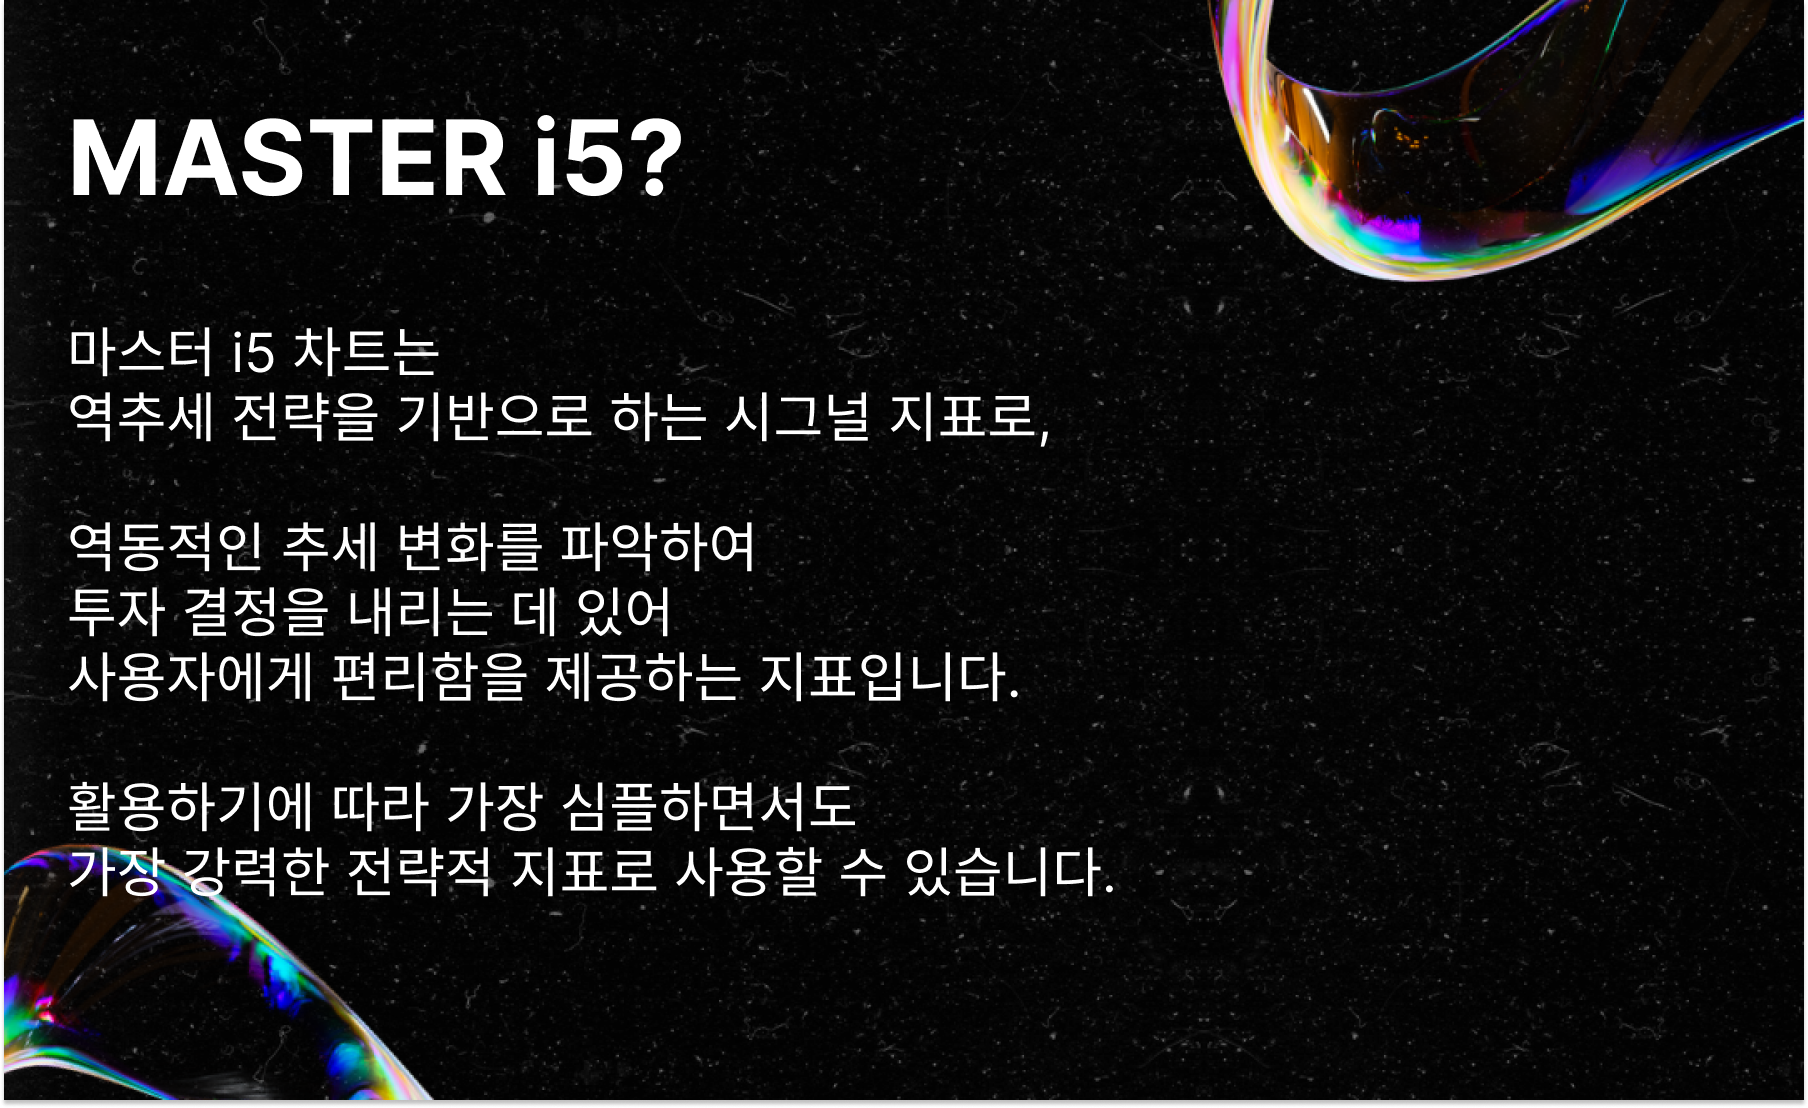
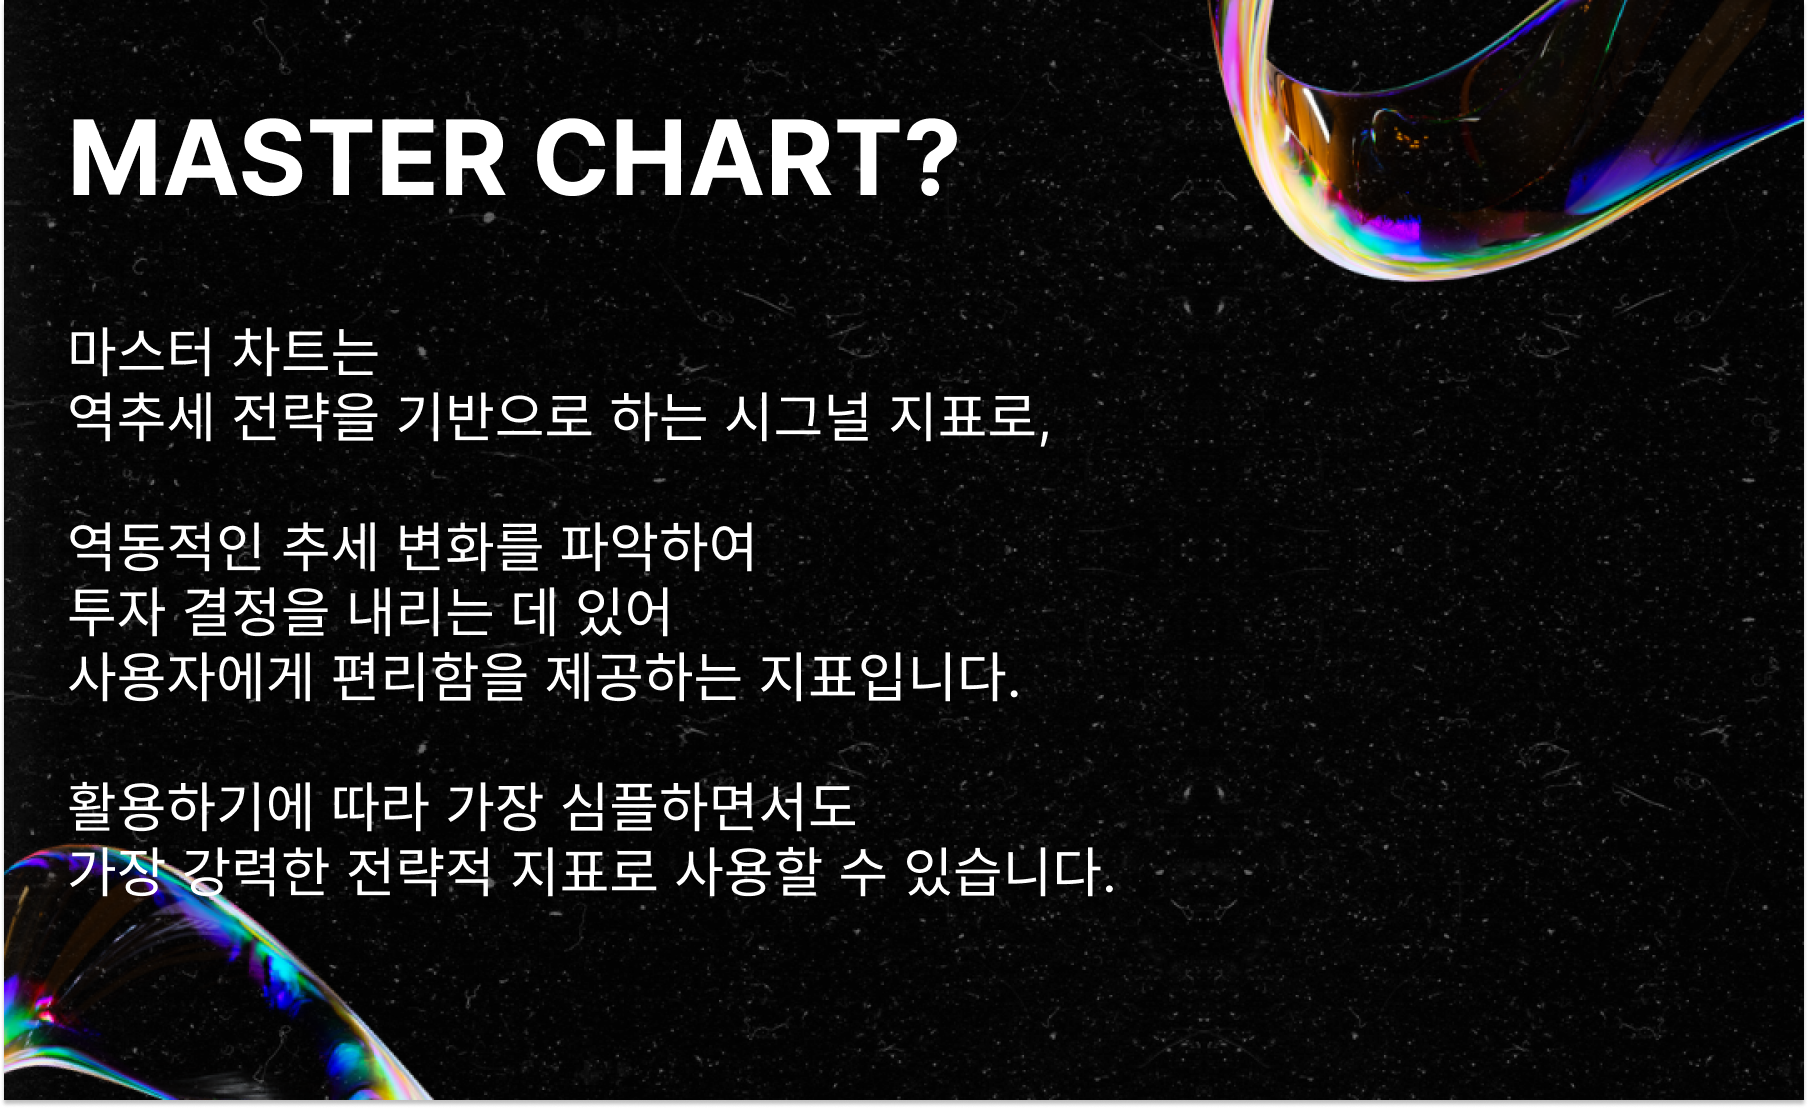
masteri5 v1.1 - image change

Changed region(s): [[0.2788, 0.0921, 0.5265, 0.1841], [0.1239, 0.2762, 0.2478, 0.3375]]

diff --git a/index.html b/index.html
@@ -4,10 +4,9 @@
 <head>
   <meta charset="UTF-8">
   <meta name="viewport" content="width=device-width, initial-scale=1.0">
-  <title>Master i5 - Reverse Solution</title>
+  <title>Master Chart - Reverse Solution</title>
 
   <link rel="stylesheet" href="https://cdn.jsdelivr.net/npm/swiper@11/swiper-bundle.min.css" />
-  <script src="https://cdn.jsdelivr.net/npm/swiper@11/swiper-bundle.min.js"></script>
   <link rel="stylesheet" href="./style.css">
 </head>
 
@@ -31,16 +30,18 @@
   <section id="img6">
     <img src="./img/Group 325.png" alt="section-image">
   </section>
+  <!-- Video -->
   <section id="img7">
     <img src="./img/Group 318.png" alt="section-image">
     <div class="video-box">
       <video src="./media/masteri5.mp4" controls loop muted></video>
     </div>
   </section>
+  <!-- Swiper -->
   <section id="img8">
     <img src="./img/Group 319.png" alt="section-image">
     <!-- Swiper -->
-    <div class="swiper analyst__swiper">
+    <div class="analyst__swiper">
       <div class="swiper-wrapper">
         <div class="swiper-slide">
           <img src="./img/analyst01.png" alt="analyst">
@@ -70,12 +71,13 @@
     <p class="company__name container">reverse solution</p>
     <hr>
     <div class="wrapper container">
-      <p class="description">Name. Bit Solution | Address. Seoul, Korea</p>
+      <p class="description">Name. Reverse Solution & Noti Tech | Address. Seoul, Korea</p>
       <p class="copyright">COPYRIGHT © BITSOLUTION ALL RIGHTS RESERVED</p>
     </div>
   </footer>
 
   <!-- SCRIPT -->
+  <script src="https://cdn.jsdelivr.net/npm/swiper@11/swiper-bundle.min.js"></script>
   <script>
     document.querySelector('video').playbackRate = 2;
 
@@ -84,7 +86,6 @@
         delay: 1,
         disableOnInteraction: false,
       },
-      freemode: true,
       speed: 8e3,
       loop: true,
       slidesPerView: 3,

diff --git a/style.css b/style.css
@@ -33,7 +33,7 @@ section img {
 #img8 {
   position: relative;
 }
-.swiper {
+.analyst__swiper {
   position: absolute;
   top: 30%;
   left: 0;
@@ -65,17 +65,17 @@ section img {
 
 @media (min-width: 1000px) {
   .swiper-slide .analyst-name {
-    font-size: 2rem;
+    font-size: 1.8rem;
   }
 }
 @media (max-width: 800px) {
   .swiper-slide .analyst-name {
-    font-size: 1.4rem;
+    font-size: 1.2rem;
   }
 }
 @media (max-width: 600px) {
   .swiper-slide .analyst-name {
-    font-size: 1rem;
+    font-size: 0.8rem;
   }
 }
 
